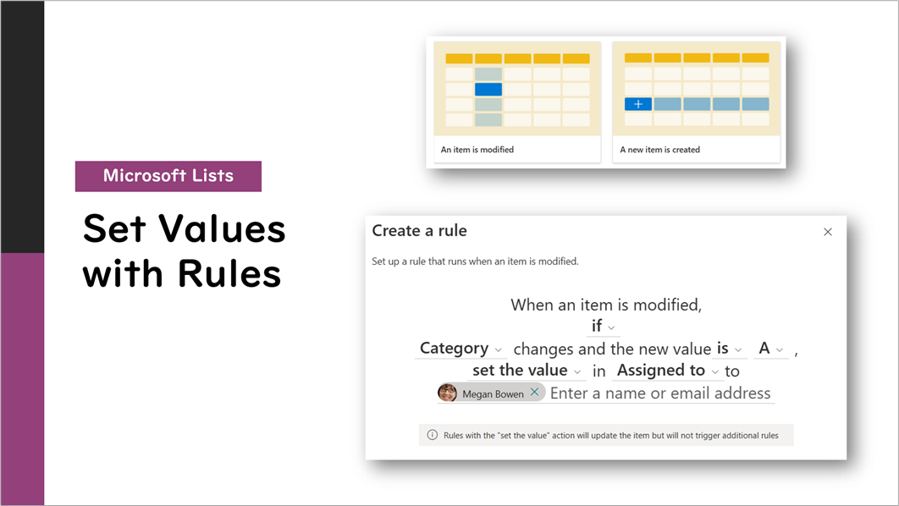
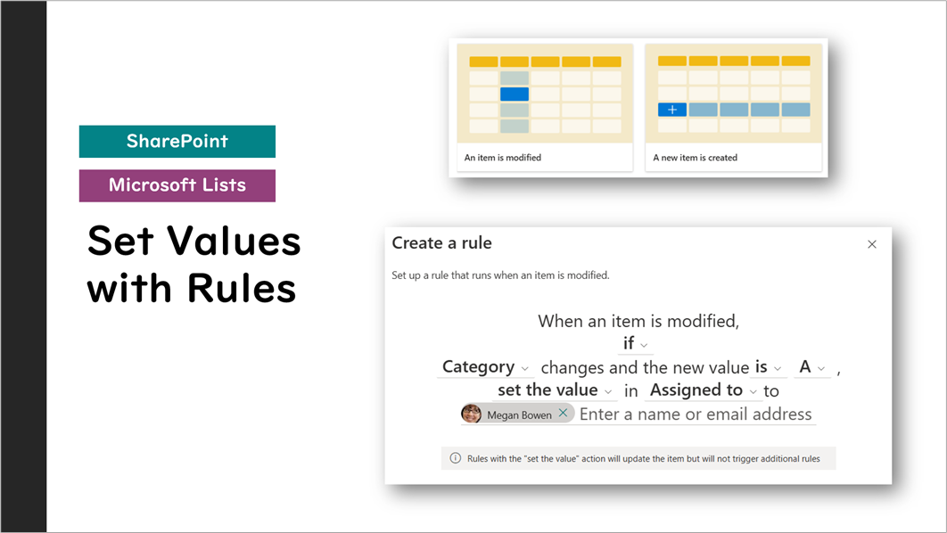
Changed title

diff --git a/content/post/set-values-with-rules/index.md b/content/post/set-values-with-rules/index.md
@@ -1,5 +1,5 @@
 ---
-title: "Microsoft Lists: Set Values with Rules"
+title: "SharePoint and Microsoft Lists: Set Values with Rules"
 date: 2025-05-14T00:00:00-00:00
 author: "Tetsuya Kawahara"
 githubname: tecchan1107
@@ -14,7 +14,7 @@ tags: []
 type: "regular"
 ---
 
-When it comes to the [rules feature](https://support.microsoft.com/office/create-a-rule-to-automate-a-list-or-library-151ea008-7fa6-409b-b0bd-b04a3b3cacd5) in Microsoft Lists, I initially thought it was primarily for notifications only. However, during the session "Simplifying Business Processes with SharePoint Automation" at the [Microsoft 365 Community Conference](https://m365conf.com/), I learned that the rules feature can **automatically set values** based on specific conditions.
+When it comes to the [rules feature](https://support.microsoft.com/office/create-a-rule-to-automate-a-list-or-library-151ea008-7fa6-409b-b0bd-b04a3b3cacd5) in SharePoint lists and document libraries, I initially thought it was primarily for notifications only. However, during the session "Simplifying Business Processes with SharePoint Automation" at the [Microsoft 365 Community Conference](https://m365conf.com/), I learned that the rules feature can **automatically set values** based on specific conditions.
 
 ![Steps to create a rule](./images/create-rule.png)
 
